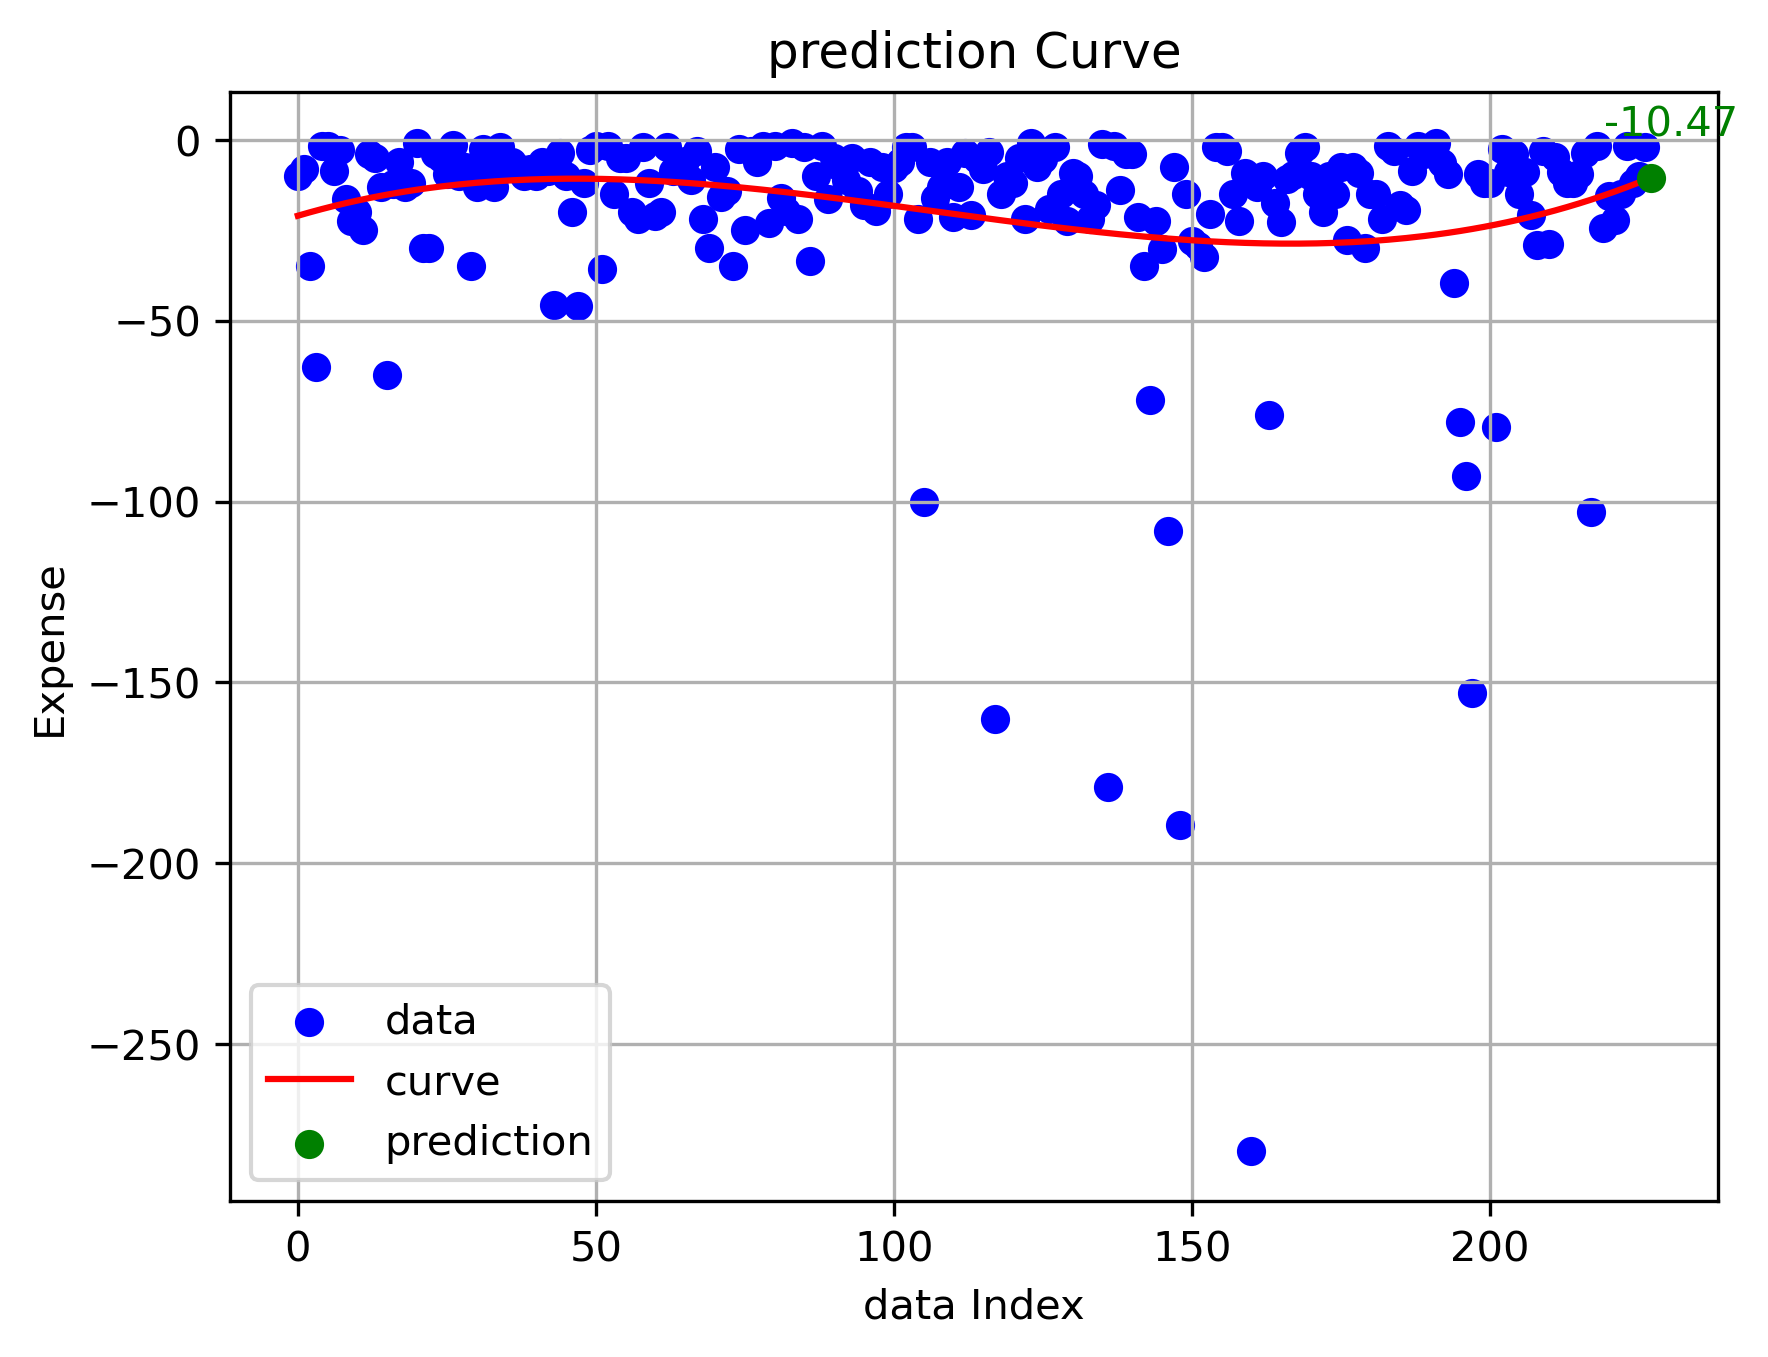
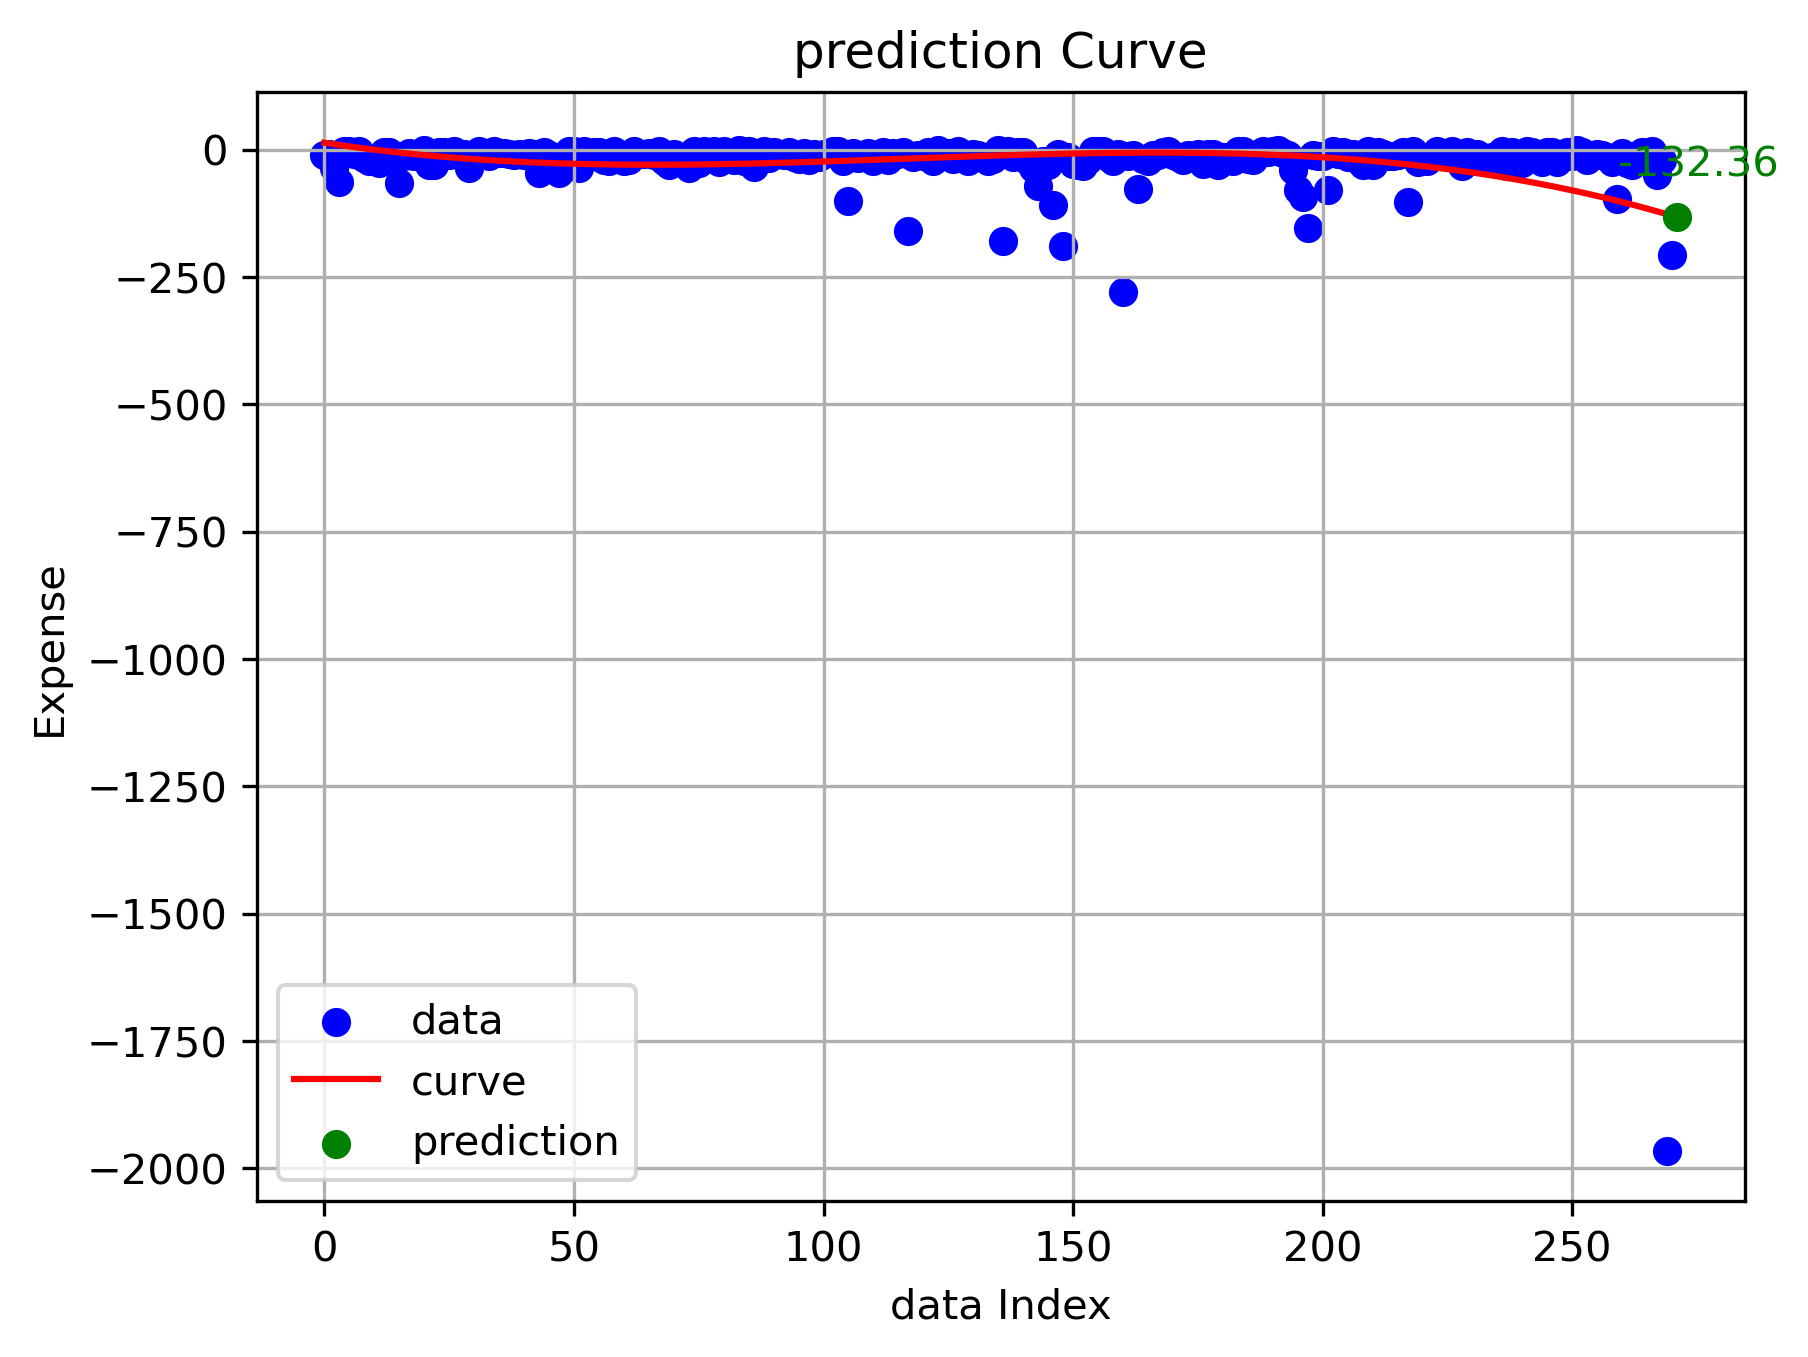
fix:figure data display error and data update 12.25 with a long gap for my contest to get a Master degree.

diff --git a/Avg&Var/Avg&Var.py b/Avg&Var/Avg&Var.py
@@ -1,12 +1,8 @@
 import collections
-from turtledemo.penrose import start
-
-import numpy as np
 import pandas as pd
 import pymysql
 import statistics
 from matplotlib import pyplot as plt
-from matplotlib.pyplot import ylabel, yticks
 
 # 连接到 MySQL 数据库
 connection = pymysql.connect(
@@ -56,11 +52,10 @@ try:
 
     # 绘制金额变化曲线
     if dates and amounts:
-        plt.figure(figsize=(10, 6))
+        plt.figure(figsize=(16, 9))
         plt.plot(dates, amounts, marker='o', linestyle='-', color='b', label="trend")
         plt.xlabel("date")
         plt.ylabel("Expense")
-        # yticks = np.array(start = -500, stop = 0, step = 50)
         plt.title("variation")
         plt.legend()
         plt.xticks(rotation=45)

diff --git a/Avg&Var/result.md b/Avg&Var/result.md
@@ -2,8 +2,8 @@
 
 ## 金额（可执行）数据分析
 
-- 平均值: -83.325
-- 方差: 7231.843238297873
+- 平均值: -83.72763636363636
+- 方差: 6404.661433198654
 
 ## 日期出现次数统计
 
@@ -23,7 +23,7 @@
 | 2024-11-14 |          2 |
 | 2024-11-15 |          1 |
 | 2024-11-16 |          2 |
-| 2024-11-17 |          4 |
+| 2024-11-17 |          3 |
 | 2024-11-19 |          2 |
 | 2024-11-20 |          1 |
 | 2024-11-21 |          1 |
@@ -50,3 +50,12 @@
 | 2024-12-13 |          1 |
 | 2024-12-14 |          4 |
 | 2024-12-16 |          4 |
+| 2024-12-17 |          1 |
+| 2024-12-18 |          2 |
+| 2024-12-19 |          3 |
+| 2024-12-20 |          4 |
+| 2024-12-21 |          2 |
+| 2024-12-22 |          1 |
+| 2024-12-23 |          5 |
+| 2024-12-24 |          3 |
+| 2024-12-25 |          2 |

diff --git a/ExpenseAnalysis/model_predictions.md b/ExpenseAnalysis/model_predictions.md
@@ -4,12 +4,12 @@
 ## 预测值列表
 | 序号 | 预测值 |
 | -------- | ----------------------- |
-| 1    | -10.47461              |
-| 2    | -24.79477              |
-| 3    | -5.77600              |
-| 4    | -10.33168              |
+| 1    | -132.36182              |
+| 2    | -26.34046              |
+| 3    | -132.49250              |
+| 4    | -12.08903              |
     
 ## 统计分析
-- **均值**: -12.84
-- **总体方差**: 51.18
-- **样本方差**: 68.23
+- **均值**: -75.82
+- **总体方差**: 3229.65
+- **样本方差**: 4306.20
